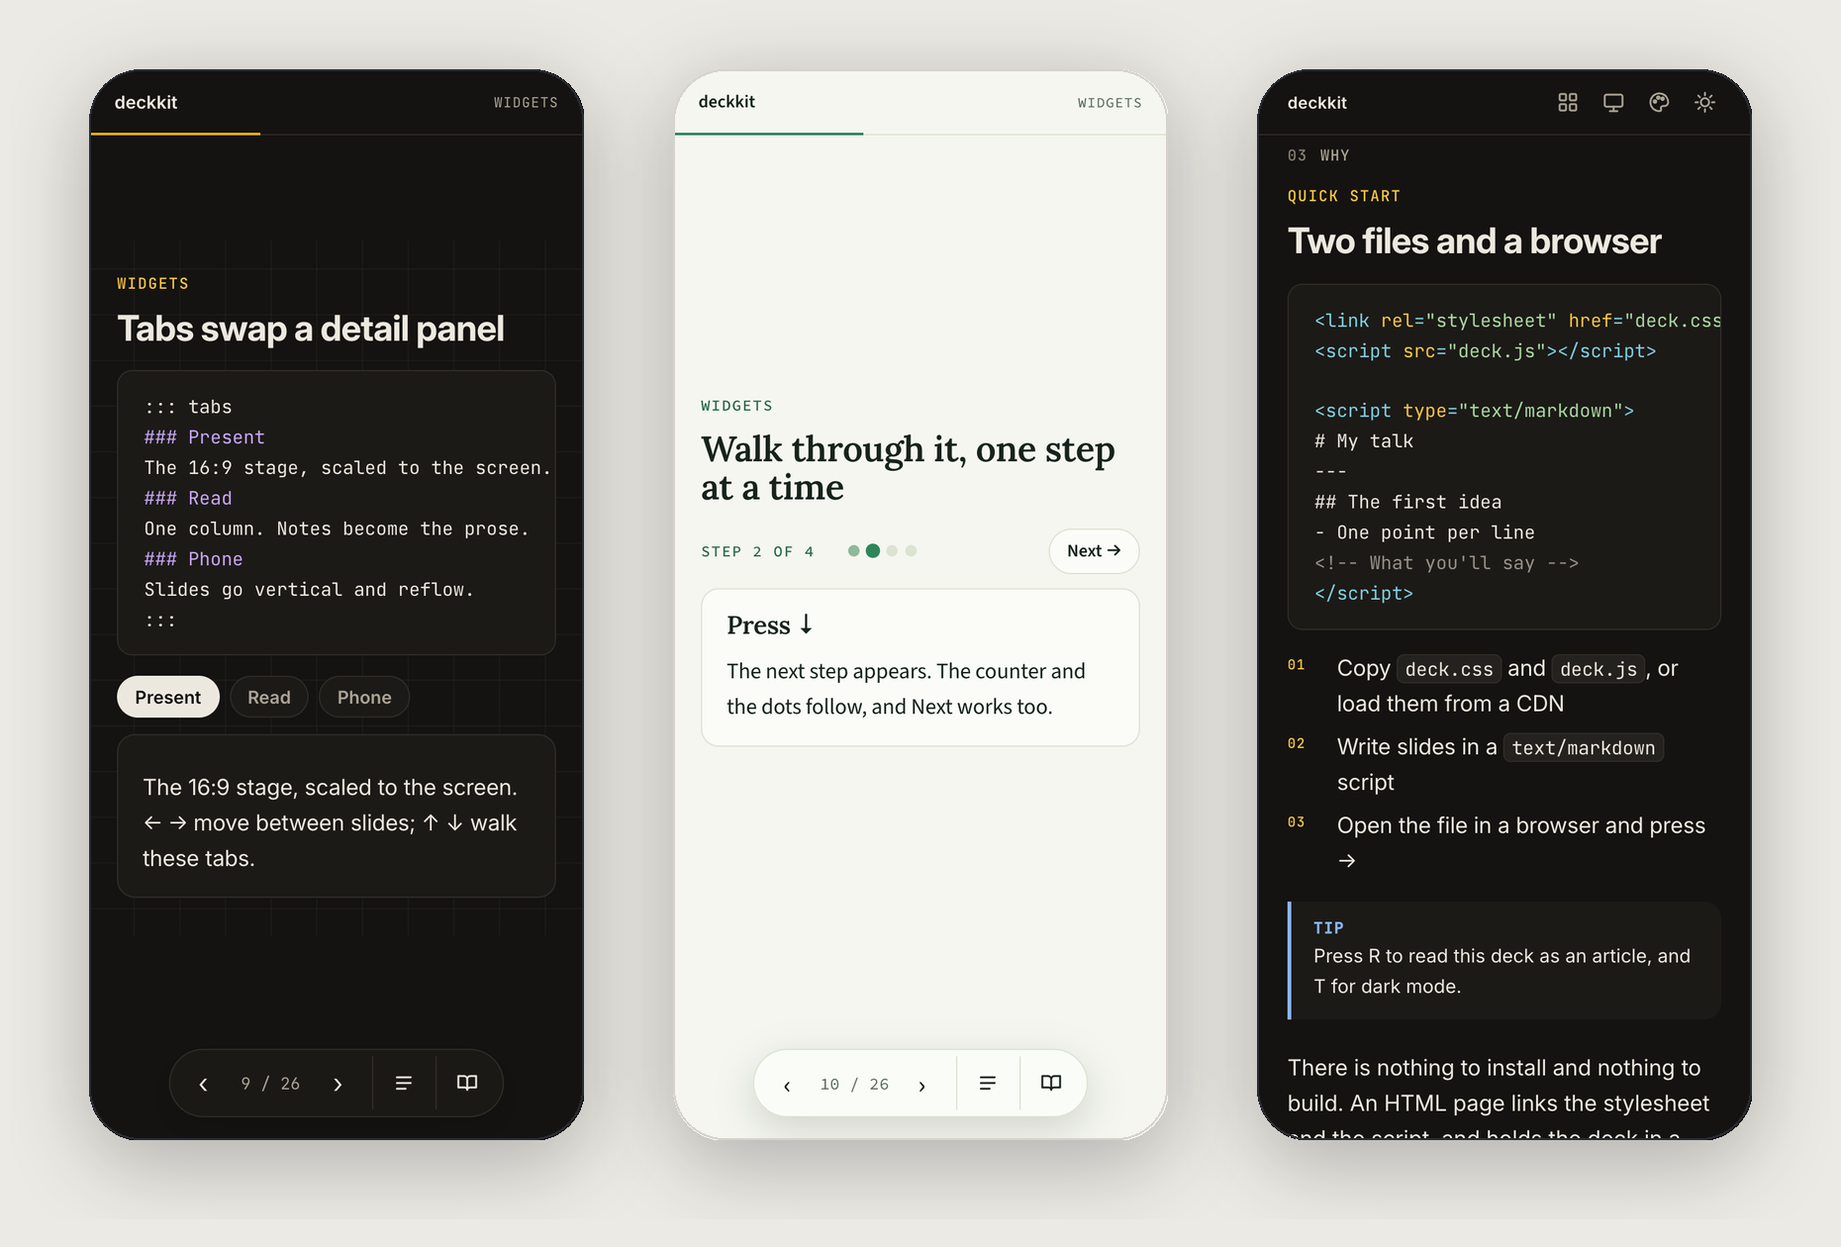
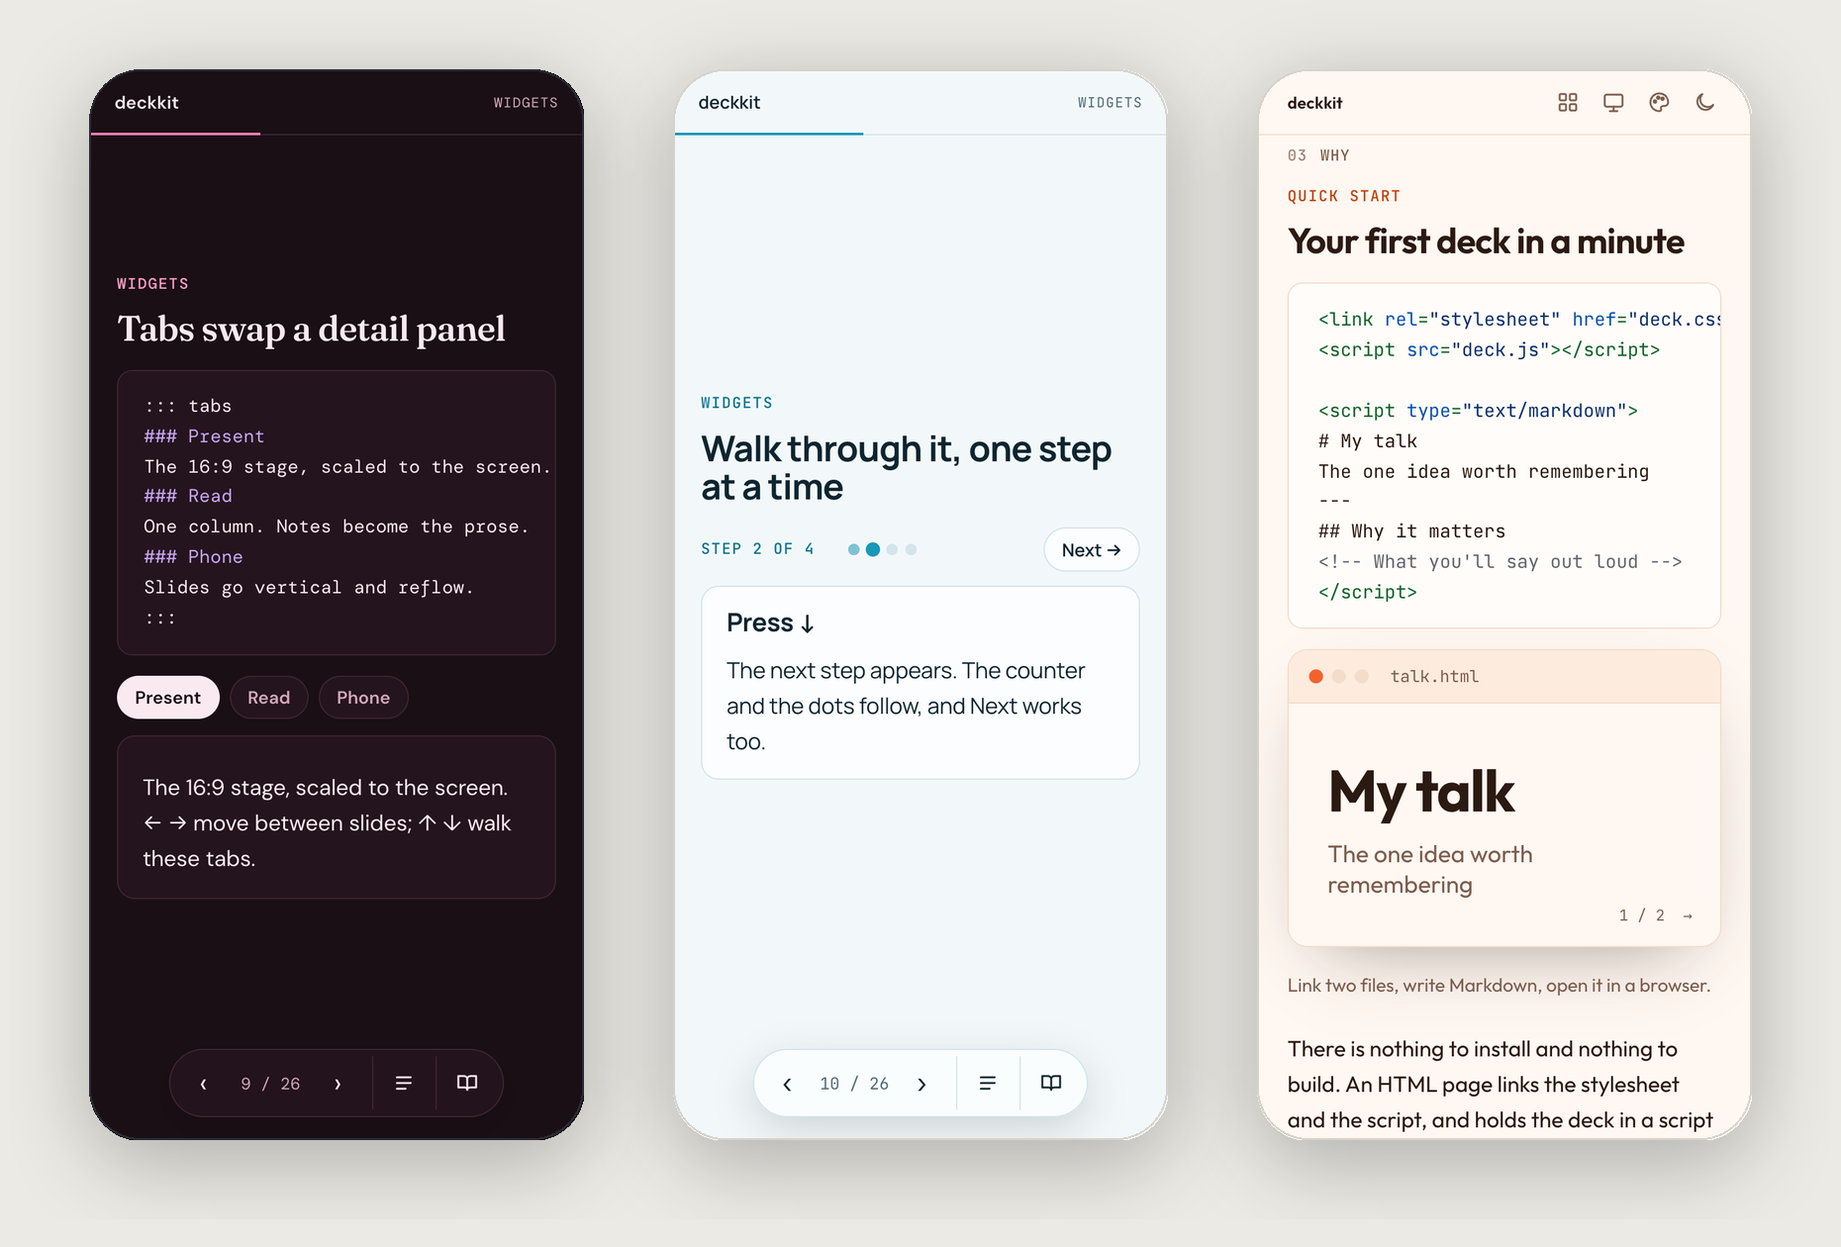
Theme links keep your place; view-only content; nicer demo and docs
- ?theme= / ?mode= links restyle in place, keeping slide, step and view
- The chosen view is kept in the URL (?view=read survives reloads)
- ::: present-only / ::: read-only for content in one view
- Picker marks each theme's dark-first or light-first design
- Architecture diagrams repainted in theme colours
- Clearer opening statement, quick start as code beside its result
- Screenshots retaken in colourful themes

diff --git a/index.html b/index.html
@@ -8,6 +8,18 @@
 <link rel="stylesheet" href="deck.css?v=0.1.0">
 <script src="deck.js?v=0.1.0"></script>
 <style>
+  /* quick start: what the Markdown on the left turns into */
+  .mini { border: 1px solid var(--line); border-radius: 16px; overflow: hidden; background: var(--surface); box-shadow: 0 24px 60px -28px color-mix(in srgb, var(--fg) 45%, transparent); }
+  .mini-bar { display: flex; align-items: center; gap: 7px; padding: 12px 16px; border-bottom: 1px solid var(--line); background: var(--surface-2); }
+  .mini-bar i { width: 11px; height: 11px; border-radius: 50%; background: var(--line); }
+  .mini-bar i:first-child { background: var(--accent); }
+  .mini-bar span { margin-left: 10px; font: 13px var(--mono); color: var(--muted); }
+  .mini-slide { aspect-ratio: 16 / 9; padding: 9% 9% 7%; display: flex; flex-direction: column; justify-content: center; position: relative; background: var(--bg); }
+  .mini-slide b { font: 700 46px/1.05 var(--display); letter-spacing: -.025em; color: var(--fg); }
+  .mini-slide span { margin-top: 14px; font-size: 19px; color: var(--muted); }
+  .mini-slide em { position: absolute; right: 22px; bottom: 16px; font: normal 12px var(--mono); color: var(--muted); }
+  .md .mini-cap { margin-top: 30px; font-size: calc(var(--t-body) * .85); color: var(--muted); }
+  [data-view=read] .mini { max-width: 520px; }
   /* the one hand-built slide: a diagram with its own walkthrough */
   .pipe { display: flex; align-items: center; gap: 14px; margin-top: 64px; }
   .pipe .n { flex: 1; height: 120px; border-radius: 16px; border: 1px solid var(--line); background: var(--surface); padding: 20px 22px; display: flex; flex-direction: column; justify-content: space-between; transition: all .3s; }
@@ -52,46 +64,43 @@ You're looking at a deckkit deck. Press → to present it, R to read it as an ar
 layout: statement
 section: Why
 ---
-A deck is usually a script with the words missing.
+Most slides only make sense while someone is presenting them.
 
-deckkit keeps the words. The notes you'd say out loud become the text people read later.
+deckkit keeps your speaker notes in the deck, so anyone who opens the link later gets the whole story, not just the bullet points.
 
 <!--
-Most decks are written to be spoken over. Send one to someone who missed the talk and they get the bullet points without the argument. In deckkit the speaker notes are part of the deck, so the same file works on a stage, in a review, and on a phone the next morning.
+Slides are written to be talked over. Send them to someone who missed the talk and they get the bullet points without the reasoning behind them. In deckkit the speaker notes are part of the deck, so the same file works on a stage, in a review, and on a phone the next morning.
 -->
 
 ---
 kicker: Quick start
 id: start
 ---
-## Two files and a browser
+## Your first deck in a minute
 
 |||
 
-````html
+````html {steps: 1-2 | 4-10}
 <link rel="stylesheet" href="deck.css">
 <script src="deck.js"><\/script>
 
 <script type="text/markdown">
 # My talk
+The one idea worth remembering
 ---
-## The first idea
-- One point per line
-<!-- What you'll say -->
+## Why it matters
+<!-- What you'll say out loud -->
 <\/script>
 ````
 
 |||
 
-1. Copy `deck.css` and `deck.js`, or load them from a CDN
-2. Write slides in a `text/markdown` script
-3. Open the file in a browser and press →
+<div class="mini" aria-hidden="true"><div class="mini-bar"><i></i><i></i><i></i><span>talk.html</span></div><div class="mini-slide"><b>My talk</b><span>The one idea worth remembering</span><em>1 / 2 &nbsp;→</em></div></div>
 
-> [!TIP]
-> Press R to read this deck as an article, and T for dark mode.
+Link two files, write Markdown, open it in a browser. {.mini-cap}
 
 <!--
-There is nothing to install and nothing to build. An HTML page links the stylesheet and the script, and holds the deck in a script tag of type text/markdown. Open it in any modern browser. To publish it, put the folder anywhere that serves static files: GitHub Pages, a bucket, an intranet share.
+There is nothing to install and nothing to build. An HTML page links the stylesheet and the script, and holds the deck in a script tag of type text/markdown: the code on the left becomes the slide on the right. Open it in any modern browser. To publish it, put the folder anywhere that serves static files: GitHub Pages, a bucket, an intranet share.
 -->
 
 ---
@@ -304,7 +313,7 @@ kicker: Widgets
 ## Diagrams from text
 
 ```mermaid {source}
-flowchart TB
+flowchart LR
   users([Users]) --> cdn[CDN]
   subgraph edge [Edge]
     cdn --> waf[WAF]
@@ -343,14 +352,14 @@ sequenceDiagram
 ### Architecture
 ```mermaid
 architecture-beta
-  group cloud(cloud)[Cloud]
-  service web(internet)[Web] in cloud
+  group cloud(cloud)[Production]
+  service web(internet)[Gateway] in cloud
   service api(server)[API] in cloud
   service db(database)[Database] in cloud
-  service files(disk)[Storage] in cloud
+  service backup(disk)[Backups] in cloud
   web:R --> L:api
   api:R --> L:db
-  api:B --> T:files
+  db:R --> L:backup
 ```
 ### State
 ```mermaid
@@ -457,8 +466,17 @@ The 16:9 stage, scaled to the screen. Arrow keys on a laptop; on a phone, a dock
 One column of text, like a blog post. Slides reflow, widgets lay everything out, builds show finished, and speaker notes become the body.
 :::
 
+::: present-only
+Press R to read this deck as an article. {.muted}
+:::
+
+::: read-only
+> [!TIP]
+> This box only appears in read view. Wrap anything in `::: read-only` or `::: present-only` to show it in one view.
+:::
+
 <!--
-On a phone or a portrait tablet, deckkit opens in read view. Markdown slides reflow into article typography, each with a small chapter label, and their speaker notes follow as paragraphs, so the deck reads top to bottom like a blog post. On a laptop, press R or use the button in the top bar. Force a view with ?view=read or ?view=present in the URL.
+On a phone or a portrait tablet, deckkit opens in read view. Markdown slides reflow into article typography, each with a small chapter label, and their speaker notes follow as paragraphs, so the deck reads top to bottom like a blog post. On a laptop, press R or use the button in the top bar. Force a view with ?view=read or ?view=present in the URL. For content that belongs to one view, like a 'press R' hint or a longer explanation, wrap it in present-only or read-only.
 -->
 
 ---
@@ -522,35 +540,37 @@ id: themes
 
 ::: tabs
 ### Everyday
-- [Paper](?theme=paper#themes): cream and gold, the default
-- [Clean](?theme=clean#themes): product and engineering reviews
-- [Slate](?theme=slate#themes): strategy and business
-- [Ledger](?theme=ledger#themes): finance and board updates
-- [Noir](?theme=noir#themes): high-contrast editorial
+- [Paper](?theme=paper#themes) ☀: cream and gold, the default
+- [Clean](?theme=clean#themes) ☀: product and engineering reviews
+- [Slate](?theme=slate#themes) ☀: strategy and business
+- [Ledger](?theme=ledger#themes) ☀: finance and board updates
+- [Noir](?theme=noir#themes) ☾: high-contrast editorial
 ### Editorial
-- [Editorial](?theme=editorial#themes): research and long-form keynotes
-- [Swiss](?theme=swiss#themes): design systems, grids and red
-- [Atelier](?theme=atelier#themes): fashion, architecture, luxury
-- [Mocha](?theme=mocha#themes): food, hospitality, cafés
+- [Editorial](?theme=editorial#themes) ☀: research and long-form keynotes
+- [Swiss](?theme=swiss#themes) ☀: design systems, grids and red
+- [Atelier](?theme=atelier#themes) ☀: fashion, architecture, luxury
+- [Mocha](?theme=mocha#themes) ☀: food, hospitality, cafés
 ### Warm
-- [Rose](?theme=rose#themes): design, brand, community
-- [Sunset](?theme=sunset#themes): workshops and friendly talks
-- [Chalk](?theme=chalk#themes): teaching and classrooms
-- [Clinic](?theme=clinic#themes): health and care
+- [Rose](?theme=rose#themes) ☀: design, brand, community
+- [Sunset](?theme=sunset#themes) ☀: workshops and friendly talks
+- [Chalk](?theme=chalk#themes) ☾: teaching and classrooms
+- [Clinic](?theme=clinic#themes) ☀: health and care
 ### Nature
-- [Forest](?theme=forest#themes): sustainability and the outdoors
-- [Ocean](?theme=ocean#themes): data and infrastructure
-- [Nord](?theme=nord#themes): cool technical explainers
+- [Forest](?theme=forest#themes) ☀: sustainability and the outdoors
+- [Ocean](?theme=ocean#themes) ☀: data and infrastructure
+- [Nord](?theme=nord#themes) ☾: cool technical explainers
 ### Tech
-- [Solar](?theme=solar#themes): developer talks
-- [Terminal](?theme=terminal#themes): CLIs and hacker talks
-- [AI](?theme=ai#themes): AI and machine learning
-- [Blueprint](?theme=blueprint#themes): hardware, engineering, specs
+- [Solar](?theme=solar#themes) ☾: developer talks
+- [Terminal](?theme=terminal#themes) ☾: CLIs and hacker talks
+- [AI](?theme=ai#themes) ☾: AI and machine learning
+- [Blueprint](?theme=blueprint#themes) ☾: hardware, engineering, specs
 ### Loud
-- [Punk](?theme=punk#themes): loud, opinionated talks
-- [Volt](?theme=volt#themes): sport, launches, energy
-- [Synth](?theme=synth#themes): gaming, music, nightlife
+- [Punk](?theme=punk#themes) ☀: loud, opinionated talks
+- [Volt](?theme=volt#themes) ☾: sport, launches, energy
+- [Synth](?theme=synth#themes) ☾: gaming, music, nightlife
 :::
+
+☀ designed light first · ☾ designed dark first. Every theme has both. {.muted}
 
 <!--
 Pick a theme with one attribute on the html element, data-theme="rose", and every slide, widget and code block follows. Each theme has a light and a dark palette drawn as a pair, with typefaces chosen for it, and T switches between them. Click a theme name to try it, or use the palette button in the top bar: this deck turns on the theme picker with data-theme-picker.

diff --git a/deck.js b/deck.js
@@ -29,6 +29,7 @@
  *   ```mermaid                          diagrams (Mermaid, fetched only if the deck has one; <html data-diagrams="off"> to skip);
  *                                       ```mermaid {source} sets the source beside the diagram
  *   [text](#id)                         link to the slide whose frontmatter says id: …
+ *   ::: present-only / ::: read-only   content for one view only (or {.present-only} / {.read-only} on a block)
  */
 (() => {
   const W = 1280, H = 720;
@@ -552,7 +553,11 @@
 
   /* ================= views ================= */
   function setView(v, chosen = true) {
-    if (chosen) viewChosen = true;
+    if (chosen) {   // keep the choice in the URL, so a reload or a shared link opens in the same view
+      viewChosen = true;
+      const keep = new URLSearchParams(location.search); keep.set('view', v);
+      history.replaceState(null, '', '?' + keep + location.hash);
+    }
     const i = Math.max(cur, 0);
     root.dataset.view = v;
     if (v === 'read') finishForReading();
@@ -738,10 +743,12 @@
     Tech: ['solar', 'terminal', 'ai', 'blueprint'],
     Loud: ['punk', 'volt', 'synth'],
   };
+  // the mode each theme was designed in first (both always work); shown in the picker
+  const DARK_FIRST = ['noir', 'chalk', 'nord', 'solar', 'terminal', 'ai', 'blueprint', 'volt', 'synth'];
   function buildPicker() {
     const pop = document.createElement('div'); pop.id = 'looks'; pop.setAttribute('role', 'menu');
     pop.innerHTML = Object.entries(THEMES).map(([group, ts]) => `<div class="lg">${group}</div>`
-      + ts.map(t => `<button role="menuitemradio" data-look="${t}" data-theme="${t}"><i></i><span>${t === 'ai' ? 'AI' : t[0].toUpperCase() + t.slice(1)}</span></button>`).join('')).join('');
+      + ts.map(t => `<button role="menuitemradio" data-look="${t}" data-theme="${t}"><i></i><span>${t === 'ai' ? 'AI' : t[0].toUpperCase() + t.slice(1)}</span><em title="Designed ${DARK_FIRST.includes(t) ? 'dark' : 'light'} first">${svg(DARK_FIRST.includes(t) ? 'dark' : 'light')}</em></button>`).join('')).join('');
     document.body.append(pop);
     const mark = () => pop.querySelectorAll('button').forEach(b => { b.dataset.mode = root.dataset.mode; b.setAttribute('aria-checked', b.dataset.look === root.dataset.theme); });
     pop.onclick = e => {
@@ -825,10 +832,25 @@
     }));
     // a clicked button keeps focus, so Space / Enter would press it again; hand the keys back to the deck
     document.addEventListener('click', e => { const b = e.target.closest('#stage button'); if (b) b.blur(); });
-    // [text](#id) links to the slide with that id
+    // [text](#id) links to the slide with that id; [text](?theme=rose#id) and ?mode=dark restyle this page in place,
+    // so the slide and step you're on stay put
     document.addEventListener('click', e => {
-      const a = e.target.closest('a[href^="#"]'), i = a ? slides().findIndex(s => s.dataset.id === decodeURIComponent(a.hash.slice(1))) : -1;
-      if (i >= 0) { e.preventDefault(); go(i, 0); }
+      const a = e.target.closest('a[href]'); if (!a || e.metaKey || e.ctrlKey || e.shiftKey) return;
+      const u = new URL(a.href, location.href);
+      if (u.origin + u.pathname !== location.origin + location.pathname) return;
+      const theme = u.searchParams.get('theme'), mode = u.searchParams.get('mode') || (/^(light|dark)$/.test(theme) ? theme : null);
+      const look = theme && !/^(light|dark)$/.test(theme) ? theme : null;
+      if (u.search && !look && !mode) return;
+      const i = u.hash ? slides().findIndex(s => s.dataset.id === decodeURIComponent(u.hash.slice(1))) : -1;
+      if (!look && !mode && i < 0) return;
+      e.preventDefault();
+      if (look) { root.dataset.theme = look; if (picker) store.set('look', look); }
+      if (mode) { root.dataset.mode = mode; store.set('mode', mode); icons(); }
+      if (look || mode) {
+        const keep = new URLSearchParams(location.search); u.searchParams.forEach((v, k) => keep.set(k, v));
+        history.replaceState(null, '', '?' + keep + location.hash);
+      }
+      if (i >= 0 && i !== cur) go(i, reading() ? undefined : 0);
     });
     addEventListener('keydown', onKey);
     addEventListener('hashchange', () => { const [sl, sp] = fromHash(); if (sl) go(sl - 1, reading() ? undefined : sp - 1); });

diff --git a/deck.css b/deck.css
@@ -419,6 +419,13 @@ td.mk-only, th.mk-only { text-align: center; }
 /* diagrams */
 .w-diagram { display: flex; justify-content: center; min-width: 0; }
 .w-diagram.drawn svg { width: 100%; max-width: 100% !important; height: auto; max-height: var(--diagram-h, 400px); }   /* fill the column, never the pager */
+/* Mermaid architecture icons ship as blue tiles with white strokes in inline styles; repaint them in the theme */
+.w-diagram [aria-roledescription=architecture] svg rect[width="80"][height="80"] { fill: var(--accent-soft) !important; stroke: color-mix(in srgb, var(--accent) 45%, transparent) !important; stroke-width: 2px !important; rx: 18px; }
+.w-diagram [aria-roledescription=architecture] svg [style*="stroke: #fff"] { stroke: var(--accent-ink) !important; stroke-width: 2.5px !important; }
+.w-diagram [aria-roledescription=architecture] svg [style*="fill: #fff"] { fill: var(--accent-ink) !important; }
+.w-diagram [aria-roledescription=architecture] .edge { stroke: var(--muted) !important; stroke-width: 2px !important; }
+.w-diagram [aria-roledescription=architecture] .arrow { fill: var(--muted) !important; }
+.w-diagram [aria-roledescription=architecture] .architecture-groups .node-bkg { fill: none !important; stroke: color-mix(in srgb, var(--accent) 40%, var(--line)) !important; stroke-width: 1.5px !important; stroke-dasharray: 6 5; rx: 14px; }
 :is(.w-tabs, .w-toggle) .w-diagram.drawn svg { --diagram-h: 270px; }
 .cols .w-diagram.drawn svg { --diagram-h: 360px; }
 :is(.w-tabs, .w-toggle) .w-pane:has(> .w-diagram) { padding: .7em 1em; }
@@ -484,6 +491,8 @@ td.mk-only, th.mk-only { text-align: center; }
 #looks button[aria-checked=true] { box-shadow: inset 0 0 0 1.5px var(--accent); }
 #looks i { width: 26px; height: 18px; flex: none; border-radius: 5px; border: 1px solid var(--line); background: linear-gradient(135deg, var(--bg) 0 55%, var(--accent) 55%); }
 #looks button { background: transparent; }
+#looks em { margin-left: auto; display: flex; color: var(--muted); }
+#looks em svg { width: 14px; height: 14px; }
 @media (max-width: 760px) { #looks { top: 56px; right: 10px; left: 10px; width: auto; } }
 #notes { position: fixed; left: 0; right: 0; bottom: 0; max-height: 34vh; overflow: auto; background: var(--surface); border-top: 2px solid var(--accent);
          padding: 16px 28px; font-size: 17px; line-height: 1.55; z-index: 20; display: none; box-shadow: 0 -12px 40px rgba(0,0,0,.25); }
@@ -504,6 +513,9 @@ kbd { font: 12.5px var(--mono); padding: 2px 7px; border: 1px solid var(--line);
 
 /* ================= read view: the deck as a long-form article ================= */
 /* one centred column on a type scale of ~1.25 from a 19px body; hand-built slides break out into wide figures */
+/* view-only content: .present-only shows on the stage, .read-only in the article (::: present-only / ::: read-only in Markdown) */
+:root:not([data-view=read]) .read-only, [data-view=read] .present-only { display: none !important; }
+
 [data-view=read] { --col: 680px; --figw: 100%; }
 @media (min-width: 1100px) { [data-view=read] { --figw: min(1040px, 100vw - 96px); } }
 

diff --git a/README.md b/README.md
@@ -22,9 +22,9 @@ Two files · No build step · 23 themes, light and dark · MIT
 
 ## Why deckkit?
 
-A slide deck is usually **a script with the words missing**. Send it to someone who missed the talk and they get the bullet points without the argument.
+Most slides only make sense while someone is presenting them. Send a deck to someone who missed the talk and they get the bullet points without the reasoning behind them.
 
-deckkit keeps the words. Your speaker notes live inside the deck, so the same file works in three places:
+deckkit keeps your speaker notes in the deck. Present it and the notes stay with you; open the same link later and they become the text between the slides. One file works in three places:
 
 | | On a laptop | On a phone | In a review |
 |---|---|---|---|
@@ -138,6 +138,7 @@ build: true
 | `{.class #id}` | Adds a class or id. On its own line, applies to the block above |
 | `==text==` | Accent-coloured text |
 | `[text](#id)` | Links to the slide with that `id` |
+| `::: present-only` · `::: read-only` | Content for one view only. `{.present-only}` or `{.read-only}` works on a single block, and the classes work in HTML slides too |
 
 Everything else is ordinary Markdown, and inline HTML passes through. Inside a Markdown script, write `<\/script>` for a literal closing script tag.
 
@@ -214,14 +215,14 @@ One attribute picks the look:
 
 | | |
 |---|---|
-| **Everyday** | `paper` (default) · `clean` · `slate` · `ledger` · `noir` |
+| **Everyday** | `paper` (default) · `clean` · `slate` · `ledger` · `noir` ☾ |
 | **Editorial & craft** | `editorial` · `swiss` · `atelier` · `mocha` |
-| **Warm & friendly** | `rose` · `sunset` · `chalk` · `clinic` |
-| **Nature & calm** | `forest` · `ocean` · `nord` |
-| **Tech** | `solar` · `terminal` · `ai` · `blueprint` |
-| **Loud** | `punk` · `volt` · `synth` |
+| **Warm & friendly** | `rose` · `sunset` · `chalk` ☾ · `clinic` |
+| **Nature & calm** | `forest` · `ocean` · `nord` ☾ |
+| **Tech** | `solar` ☾ · `terminal` ☾ · `ai` ☾ · `blueprint` ☾ |
+| **Loud** | `punk` · `volt` ☾ · `synth` ☾ |
 
-Every theme is a light and dark pair. The mode follows the system until someone presses **T**, and the choice is remembered.
+Every theme is a light and dark pair; ☾ marks the ones designed dark first, and the picker shows the same mark. The mode follows the system until someone presses **T**, and the choice is remembered.
 
 - `?theme=rose` and `?mode=dark` in the URL override both. Handy for sharing.
 - `<html data-theme-picker>` adds a picker to the top bar so viewers can choose.
